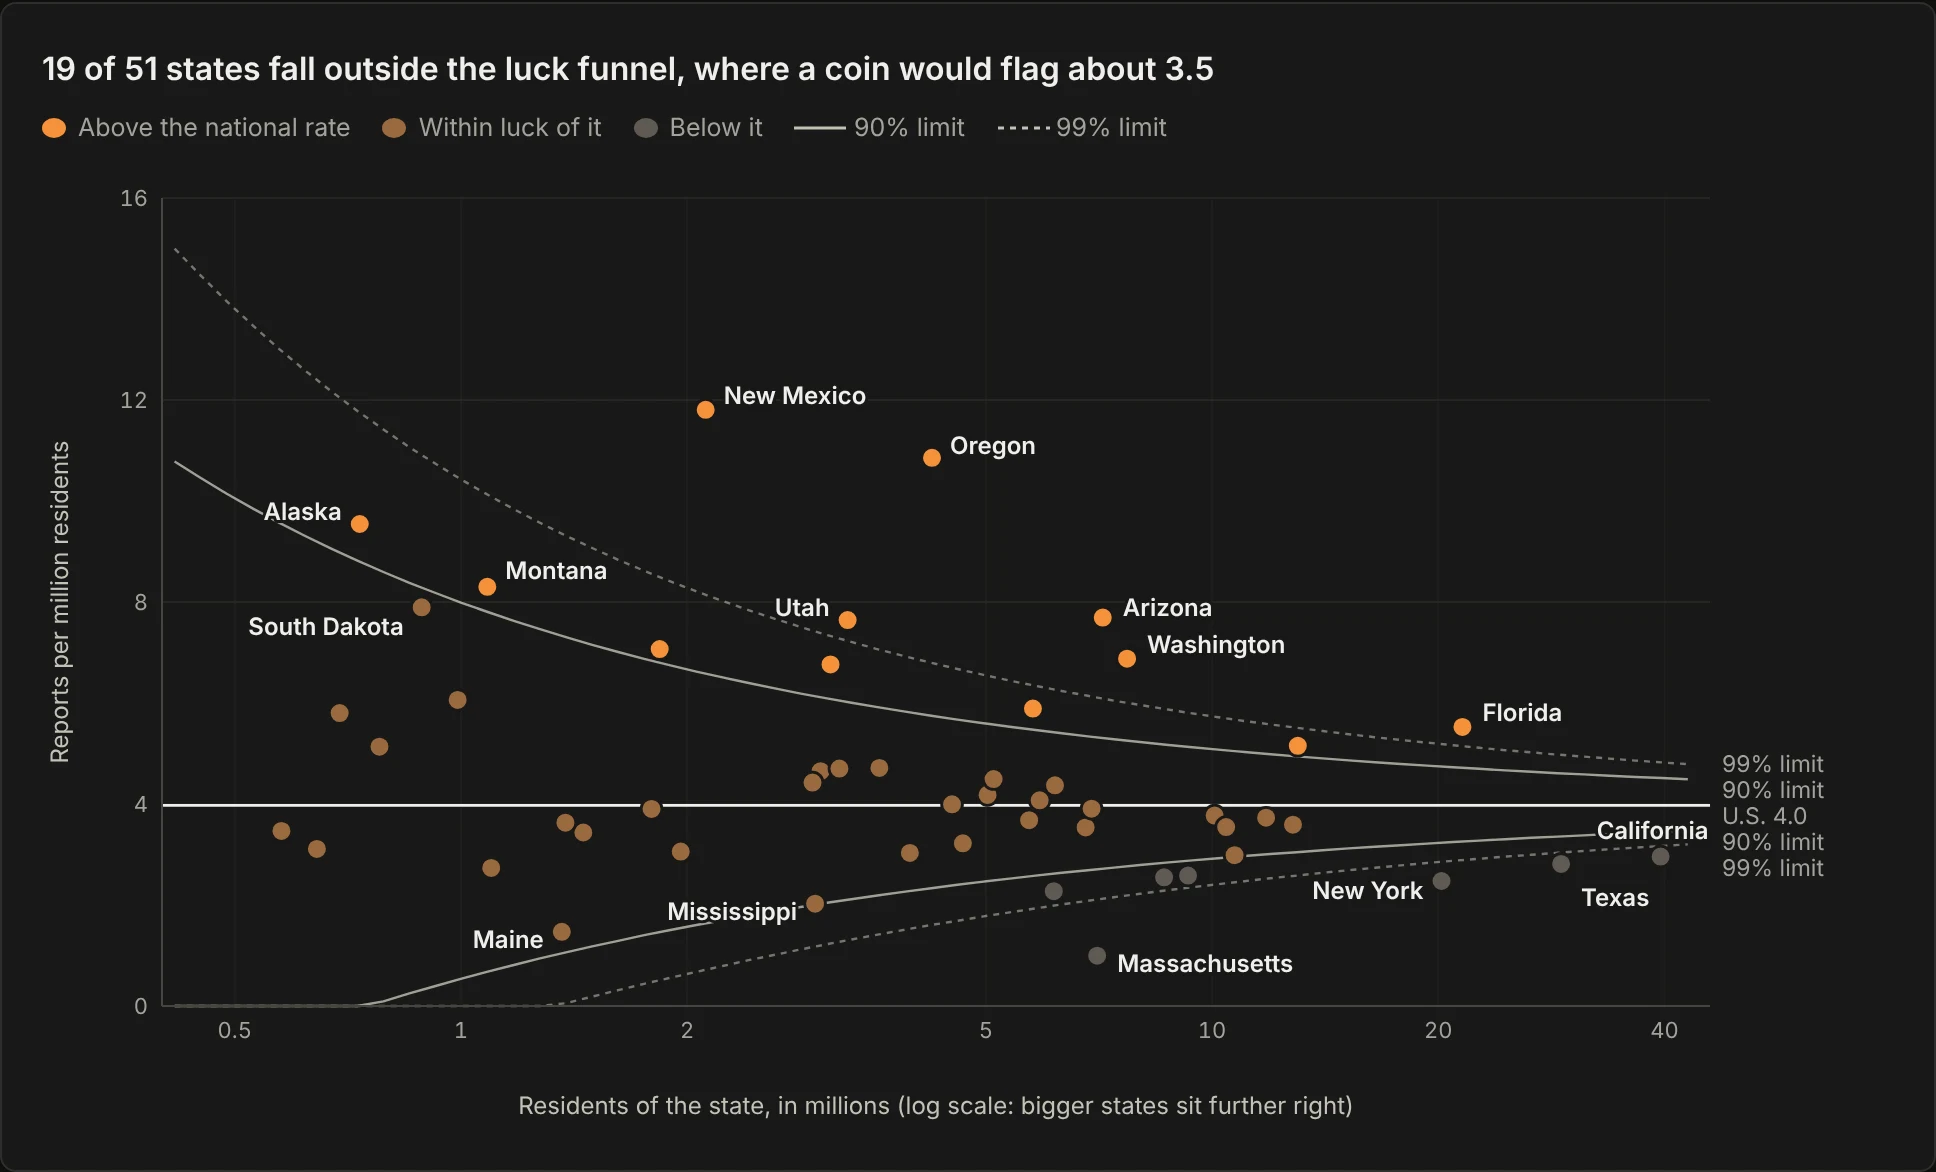
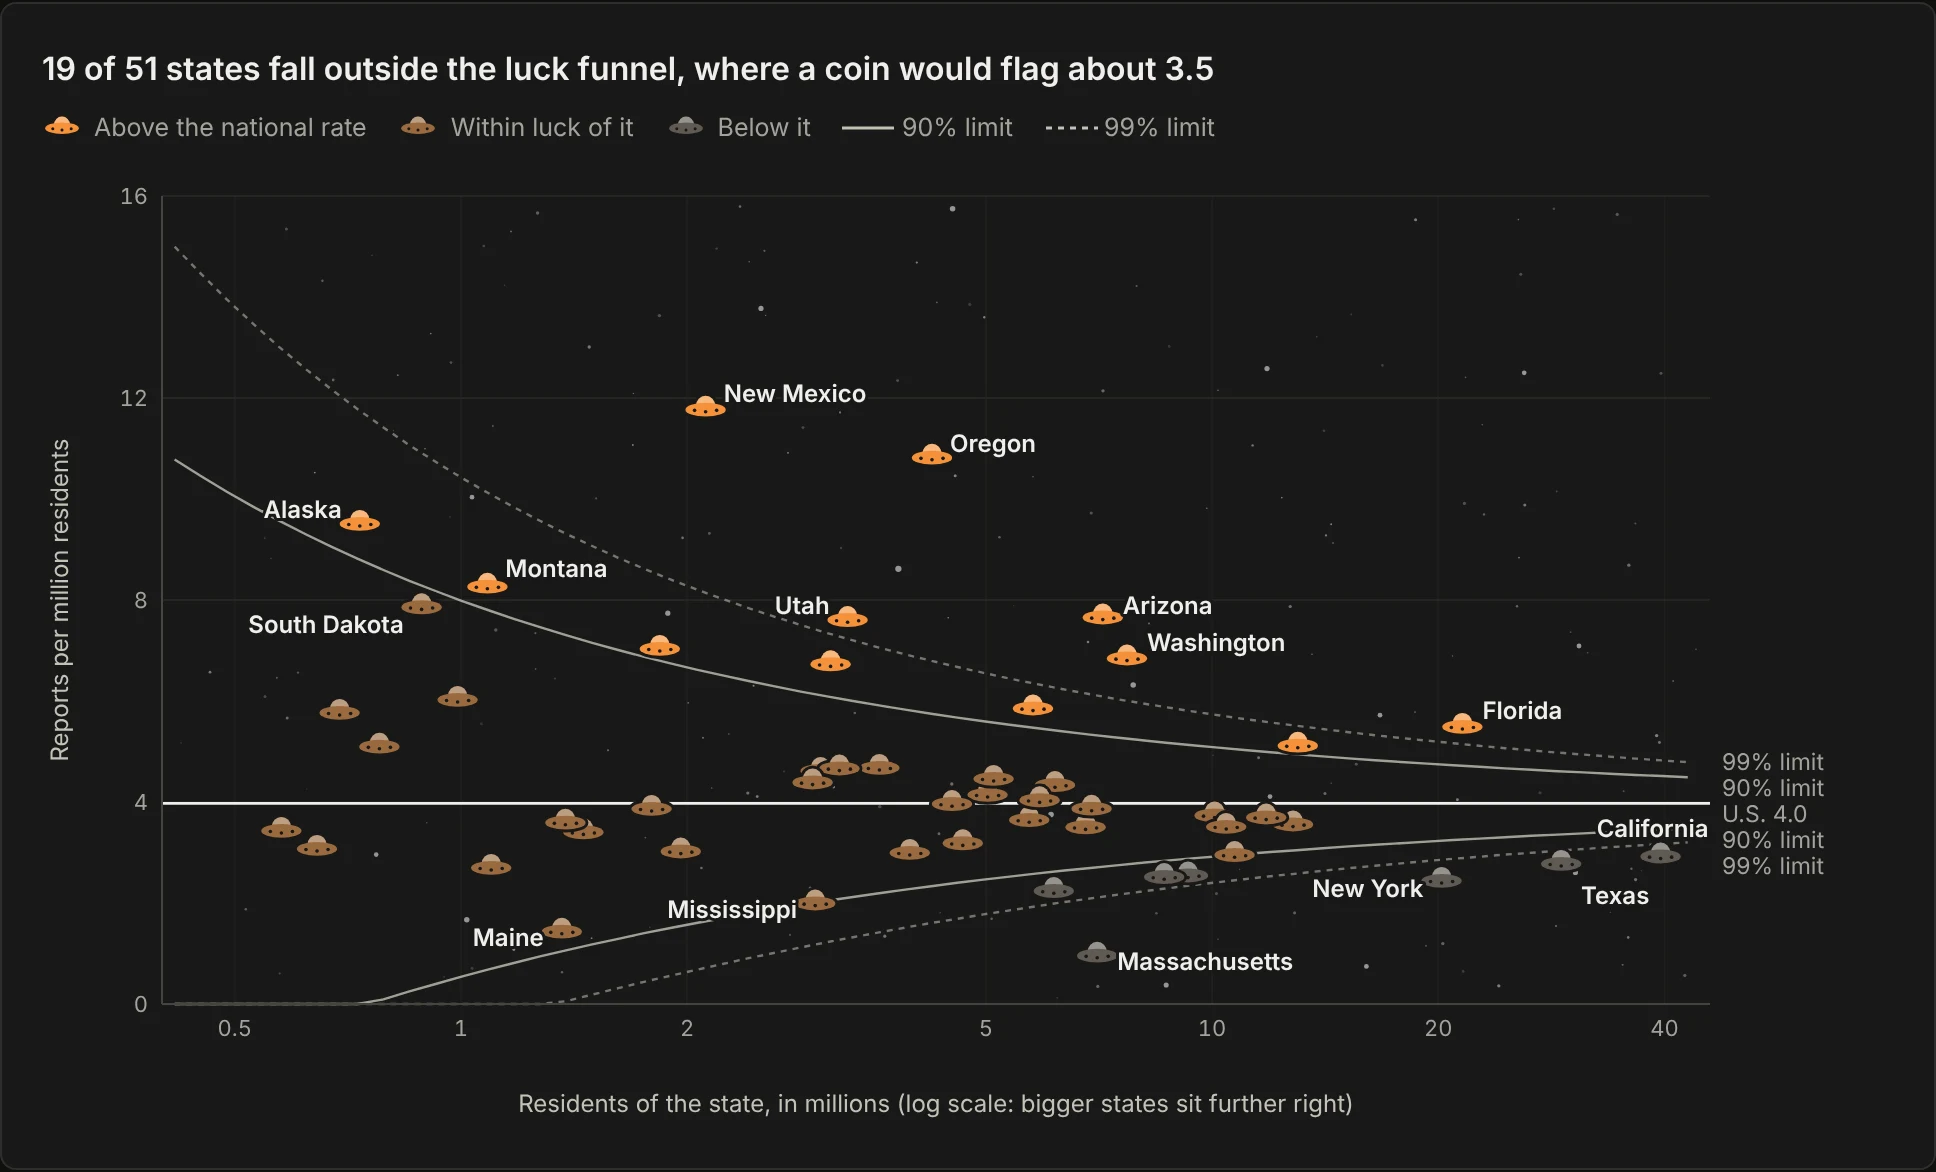
UFO luck funnel: flying saucer markers and a starfield background
Claude-Session: https://claude.ai/code/session_01UJ1HF1Wz8REDxuAbB4cibV

diff --git a/ufo-sightings/index.html b/ufo-sightings/index.html
@@ -117,6 +117,12 @@ select:focus-visible, button:focus-visible { outline: 2px solid var(--accent); o
 .halo { paint-order: stroke; stroke: var(--panel); stroke-width: 3px; stroke-linejoin: round; }
 .lkb { font-size: 12px; fill: var(--fg); font-weight: 600; }
 .lkl { font-size: 11.5px; fill: var(--fg-muted); }
+.star { fill: #fff; }
+.star.tw { animation: tw 3.2s ease-in-out infinite alternate; }
+@keyframes tw { from { opacity: .12; } to { opacity: .7; } }
+.fd { transition: transform .15s; transform-box: fill-box; transform-origin: center; }
+.fd:hover { transform: scale(1.25); }
+@media (prefers-reduced-motion: reduce) { .star.tw { animation: none; } }
 .luck { margin: 0; max-width: 74ch; color: var(--fg-2); background: var(--panel-2); border-radius: 8px; padding: 10px 14px; font-size: 14.5px; }
 .luck b { color: var(--fg); }
 .cstat { margin: 0; font-size: 14px; color: var(--fg-2); }
@@ -557,6 +563,23 @@ function simStat() {
   for (let t = 0; t < T; t++) { const c = castCounts(r); let n = 0; SL.forEach((o, i) => { if (flagOf(o, c[i]) !== 0) n++; }); cnt[n]++; }
   return SIM = { T, cnt, mean: cnt.reduce((a, v, i) => a + v * i, 0) / T };
 }
+// a small flying saucer, centered on the data point; color comes from the 'color' property
+const SAUCER_SYM = `<symbol id="saucer" overflow="visible">
+  <g fill="none" stroke="var(--panel)" stroke-width="2.4" stroke-linejoin="round"><path d="M-4,-1 A4,4.2 0 0 1 4,-1"/><ellipse cx="0" cy="0.6" rx="8.4" ry="2.9"/></g>
+  <path d="M-4,-1 A4,4.2 0 0 1 4,-1 Z" fill="currentColor"/><path d="M-4,-1 A4,4.2 0 0 1 4,-1 Z" fill="#fff" opacity=".35"/>
+  <ellipse cx="0" cy="0.6" rx="8.4" ry="2.9" fill="currentColor"/>
+  <circle cx="-4.6" cy="0.9" r=".75" fill="var(--panel)"/><circle cx="0" cy="1.5" r=".75" fill="var(--panel)"/><circle cx="4.6" cy="0.9" r=".75" fill="var(--panel)"/>
+</symbol>`;
+document.body.insertAdjacentHTML('afterbegin', `<svg width="0" height="0" style="position:absolute" aria-hidden="true" focusable="false"><defs>${SAUCER_SYM}</defs></svg>`);
+// stars: decoration only, seeded so they stay put when the chart redraws or re-casts
+function starfield(x0, y0, w, h) {
+  const r = mulberry(2026), n = Math.round(w * h / 1700); let s = '<g aria-hidden="true">';
+  for (let i = 0; i < n; i++) {
+    const big = r() < 0.08, rad = big ? 1.1 + r() * 0.5 : 0.35 + r() * 0.5, op = big ? 0.55 : 0.12 + r() * 0.35, tw = r() < 0.12;
+    s += `<circle class="star${tw ? ' tw' : ''}" cx="${(x0 + r() * w).toFixed(1)}" cy="${(y0 + r() * h).toFixed(1)}" r="${rad.toFixed(2)}" opacity="${op.toFixed(2)}"${tw ? ` style="animation-delay:-${(r() * 3.2).toFixed(1)}s"` : ''}/>`;
+  }
+  return s + '</g>';
+}
 function drawFunnel() {
   const box = $('#cFun'), W = Math.max(320, Math.min(box.clientWidth || 760, 980)), small = W < 620, H = small ? 400 : 480;
   const M = { t: 14, r: small ? 12 : 92, b: 62, l: small ? 52 : 60 }, pw = W - M.l - M.r, ph = H - M.t - M.b;
@@ -564,6 +587,7 @@ function drawFunnel() {
   const x = p => M.l + pw * (Math.log(p) - Math.log(P0)) / (Math.log(P1) - Math.log(P0)), y = v => M.t + ph * (1 - Math.min(YM, Math.max(0, v)) / YM);
   const D = lk.mode === 'real' ? SL : lk.sim, fl = o => flagOf(o, o.k), rate = o => o.k / o.pop * 1e6;
   let s = `<svg viewBox="0 0 ${W} ${H}" role="img" aria-label="Funnel plot: reports per million residents for each state against its population, with 90% and 99% luck limits around the national rate">`;
+  s += starfield(M.l, M.t, pw, ph);
   [0, 4, 8, 12, 16].forEach(v => { s += `<line class="gl" x1="${M.l}" x2="${W - M.r}" y1="${y(v)}" y2="${y(v)}"/><text class="tk" x="${M.l - 7}" y="${y(v) + 4}" text-anchor="end">${v}</text>`; });
   [0.5, 1, 2, 5, 10, 20, 40].forEach(p => { s += `<line class="gl" x1="${x(p)}" x2="${x(p)}" y1="${M.t}" y2="${H - M.b}" opacity=".5"/><text class="tk" x="${x(p)}" y="${H - M.b + 16}" text-anchor="middle">${p}</text>`; });
   [['hi99', '3 3', .55], ['lo99', '3 3', .55], ['hi90', 'none', .8], ['lo90', 'none', .8]].forEach(([k, da, op]) => {
@@ -572,7 +596,8 @@ function drawFunnel() {
   let last = FUN.p.length - 1; while (FUN.p[last] > P1) last--;
   if (!small) { let prev = -99; [['99% limit', FUN.hi99[last]], ['90% limit', FUN.hi90[last]], ['U.S. ' + NAT.toFixed(1), NAT], ['90% limit', FUN.lo90[last]], ['99% limit', FUN.lo99[last]]].forEach(([t, v]) => { const yy = Math.max(y(v), prev + 13); prev = yy; s += `<text class="lkl" x="${W - M.r + 6}" y="${yy + 4}">${t}</text>`; }); }
   const col = o => fl(o) > 0 ? 'var(--accent)' : fl(o) < 0 ? 'var(--accent-dim)' : 'var(--accent-soft)';
-  D.forEach((o, i) => { s += `<circle class="fd" data-i="${i}" cx="${x(o.pop / 1e6)}" cy="${y(rate(o))}" r="5.2" fill="${col(o)}" stroke="var(--panel)" stroke-width="1.4"/>`; });
+  const sz = small ? 1 : 1.2;
+  D.forEach((o, i) => { s += `<g class="fd" data-i="${i}" transform="translate(${x(o.pop / 1e6).toFixed(1)},${y(rate(o)).toFixed(1)}) scale(${sz})"><use href="#saucer" style="color:${col(o)}"/><rect x="-10" y="-8" width="20" height="14" fill="transparent"/></g>`; });
   const OFF = { NM: [9, -7, 's'], OR: [9, -6, 's'], AK: [-9, -6, 'e'], MT: [9, -8, 's'], SD: [-9, 10, 'e'], AZ: [10, -5, 's'], WA: [10, -7, 's'], UT: [-9, -6, 'e'], FL: [10, -7, 's'], CA: [-4, -13, 'm'], TX: [10, 17, 's'], NY: [-9, 5, 'e'], MA: [10, 4, 's'], MS: [-9, 4, 'e'], ME: [-9, 4, 'e'] };
   const names = lk.mode === 'real' ? (small ? ['NM', 'OR', 'AK', 'FL', 'CA', 'TX'] : Object.keys(OFF)) : D.filter(o => fl(o)).map(o => o.ab);
   names.forEach(ab => { const o = D.find(d => d.ab === ab); if (!o) return; let f = OFF[ab] || [9, -6, 's']; if (small && ab === 'TX') f = [-9, 17, 'e']; if (small && ab === 'CA') f = [-9, -12, 'e'];
@@ -590,15 +615,15 @@ function drawFunnel() {
   $('#cFh').textContent = lk.mode === 'real'
     ? `${real} of ${SL.length} states fall outside the luck funnel, where a coin would flag about ${ss.mean.toFixed(1)}`
     : `Same reports, dealt to states by a weighted coin: ${k} ${k === 1 ? 'state falls' : 'states fall'} outside the funnel`;
-  $('#cFp').textContent = `One dot per state. Dots outside the inner funnel run hotter or cooler than luck alone explains.`;
+  $('#cFp').textContent = `One flying saucer per state. Saucers outside the inner funnel run hotter or cooler than luck alone explains.`;
   $('#lkstat').innerHTML = lk.mode === 'real'
     ? `Real reports: <b>${real}</b> states outside the 90% funnel (${up} above, ${dn} below). Press “Re-cast with a coin” to deal the same ${fmt(R.length)} reports to states by population instead.`
     : `Coin cast #${lk.seed}: <b>${k}</b> outside the funnel. Real reports: <b>${real}</b>. Across ${fmt(ss.T)} coin casts the average was <b>${ss.mean.toFixed(1)}</b>, and ${real} or more happened in <b>${atLeast}</b> of them.`;
   $('#lkreal').setAttribute('aria-pressed', lk.mode === 'real'); $('#lkcast').setAttribute('aria-pressed', lk.mode === 'coin');
-  const sw = c => `<i style="background:${c};border-radius:50%"></i>`;
+  const sw = c => `<svg width="20" height="12" viewBox="-10 -6.5 20 12" aria-hidden="true" style="vertical-align:-1px;margin-right:6px"><use href="#saucer" style="color:${c}"/></svg>`;
   $('#lkkey').innerHTML = `<li>${sw('var(--accent)')}Above the national rate</li><li>${sw('var(--accent-soft)')}Within luck of it</li><li>${sw('var(--accent-dim)')}Below it</li><li><svg width="26" height="8" aria-hidden="true"><line x1="0" x2="26" y1="4" y2="4" stroke="var(--fg-2)" stroke-width="1.4"/></svg>&nbsp;90% limit</li><li><svg width="26" height="8" aria-hidden="true"><line x1="0" x2="26" y1="4" y2="4" stroke="var(--fg-2)" stroke-width="1.4" stroke-dasharray="3 3"/></svg>&nbsp;99% limit</li>`;
   $('#cFn').textContent = lk.mode === 'real'
-    ? `Rate = reports in this dataset ÷ 2020 Census population × 1,000,000. Limits are exact Poisson 90% and 99% limits around the national rate of ${NAT.toFixed(1)} per million, wider for small states. A dot outside the 90% limit is what the ranked chart below colors orange or gray. Click a dot to filter the map to that state.`
+    ? `Rate = reports in this dataset ÷ 2020 Census population × 1,000,000. Limits are exact Poisson 90% and 99% limits around the national rate of ${NAT.toFixed(1)} per million, wider for small states. A saucer outside the 90% limit is what the ranked chart below colors orange or gray. Click a saucer to filter the map to that state.`
     : `Every state keeps its real population, but the ${fmt(R.length)} reports are re-dealt among states by a coin weighted to each state’s share of residents, so any gap from ${NAT.toFixed(1)} per million is luck by construction. Press the button again for a new cast.`;
 }
 $('#lkreal').addEventListener('click', () => { lk.mode = 'real'; drawFunnel(); });
